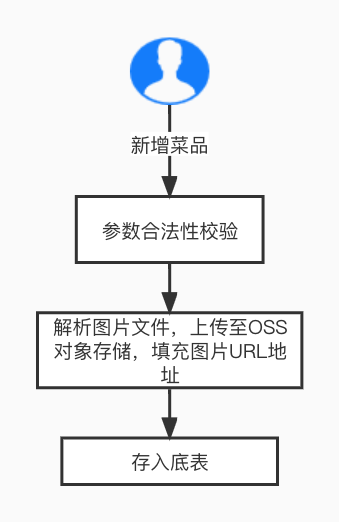
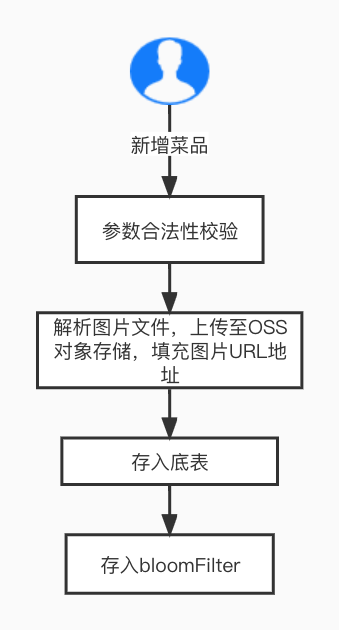
update

Changed region(s): [[0.0885, 0.0307, 0.9145, 0.9502]]

diff --git a/waimai-dishes-management/src/main/java/com/cvte/waimai/service/impl/DishServiceImpl.java b/waimai-dishes-management/src/main/java/com/cvte/waimai/service/impl/DishServiceImpl.java
@@ -5,9 +5,11 @@ import com.cvte.waimai.dao.DishDao;
 import com.cvte.waimai.exception.AppException;
 import com.cvte.waimai.exception.AppExceptionCodeMsg;
 import com.cvte.waimai.service.DishService;
+import com.cvte.waimai.utils.DishCacheMqUtils;
 import com.cvte.waimai.utils.MsgUtils;
 import com.cvte.waimai.utils.RedisUtils;
 import org.apache.log4j.Logger;
+import org.redisson.api.RBloomFilter;
 import org.springframework.beans.factory.annotation.Autowired;
 import org.springframework.stereotype.Service;
 import org.springframework.transaction.annotation.Transactional;
@@ -15,6 +17,7 @@ import pojo.Dish;
 
 import javax.annotation.Resource;
 import java.util.List;
+import java.util.Random;
 
 @Service
 public class DishServiceImpl implements DishService{
@@ -27,12 +30,20 @@ public class DishServiceImpl implements DishService{
     @Resource
     private RedisUtils redisUtils;
 
+    @Autowired
+    RBloomFilter<String> bloomFilter;
+
+    @Autowired
+    private DishCacheMqUtils dishCacheMqUtils;
+
     private static final String KEY_PREFIX = "waimai_dish_%s";
 
     @Override
     @Transactional(rollbackFor = Exception.class)
     public MsgUtils addDish(Dish dish) {
         this.dishDao.addDish(dish);
+        String curDishCacheKey = String.format(KEY_PREFIX, dish.getDish_id());
+        this.bloomFilter.add(curDishCacheKey);
         logger.info("dish add success");
         return MsgUtils.success();
     }
@@ -43,8 +54,7 @@ public class DishServiceImpl implements DishService{
         String curDishCacheKey = String.format(KEY_PREFIX, dishId);
         redisUtils.remove(curDishCacheKey);
         this.dishDao.deleteDish(dishId);
-        Thread.sleep(100);
-        redisUtils.remove(curDishCacheKey);
+        dishCacheMqUtils.sendMessage(curDishCacheKey);
         logger.info(dishId + ": dish delete success");
         return MsgUtils.success();
     }
@@ -68,14 +78,18 @@ public class DishServiceImpl implements DishService{
         String curDishCacheKey = String.format(KEY_PREFIX, dish.getDish_id());
         redisUtils.remove(curDishCacheKey);
         this.dishDao.updateDish(dish);
-        Thread.sleep(100);
-        redisUtils.remove(curDishCacheKey);logger.info(dish.getDish_id() + ": dish update success");
+        dishCacheMqUtils.sendMessage(curDishCacheKey);
+        logger.info(dish.getDish_id() + ": dish update success");
         return MsgUtils.success();
     }
 
     @Override
     public MsgUtils getDishById(int dishId) {
         String curDishCacheKey = String.format(KEY_PREFIX, dishId);
+        boolean isExist = this.bloomFilter.contains(curDishCacheKey);
+        if (!isExist) {
+            throw new AppException(AppExceptionCodeMsg.DISH_NOT_FOUND);
+        }
         String cache = redisUtils.get(curDishCacheKey);
         if (null != cache) {
             //if cache exist return
@@ -85,12 +99,23 @@ public class DishServiceImpl implements DishService{
             return MsgUtils.success(dish);
         } else {
             //if cache no exist find in db and push in cache
-            Dish dish = this.dishDao.getDishById(dishId);
-            if (dish != null) {
-                String dishStr = JSONObject.toJSONString(dish);
-                redisUtils.set(curDishCacheKey, dishStr, 60L * 5);
-            } else {
-                throw new AppException(AppExceptionCodeMsg.DISH_NOT_FOUND);
+            Dish dish;
+            synchronized (DishServiceImpl.class) {
+                //query cache again
+                String cache1 = redisUtils.get(curDishCacheKey);
+                if (cache1 != null) {
+                    dish = JSONObject.parseObject(cache1, Dish.class);
+                    return MsgUtils.success(dish);
+                }
+                dish = this.dishDao.getDishById(dishId);
+                if (dish != null) {
+                    String dishStr = JSONObject.toJSONString(dish);
+                    Random random = new Random();
+                    int randomNum = random.nextInt(300);
+                    redisUtils.set(curDishCacheKey, dishStr, 60L * 5 + randomNum);
+                } else {
+                    throw new AppException(AppExceptionCodeMsg.DISH_NOT_FOUND);
+                }
             }
             return MsgUtils.success(dish);
         }

diff --git a/waimai-uitls/src/main/java/com/cvte/waimai/utils/DishCacheMqUtils.java b/waimai-uitls/src/main/java/com/cvte/waimai/utils/DishCacheMqUtils.java
@@ -1,0 +1,60 @@
+package com.cvte.waimai.utils;
+
+
+import com.mysql.cj.MessageBuilder;
+import org.apache.rocketmq.client.consumer.DefaultMQPushConsumer;
+import org.apache.rocketmq.client.exception.MQClientException;
+import org.apache.rocketmq.client.producer.DefaultMQProducer;
+import org.apache.rocketmq.common.TopicConfig;
+import org.apache.rocketmq.common.message.Message;
+import org.apache.rocketmq.common.protocol.heartbeat.MessageModel;
+import org.springframework.context.annotation.DependsOn;
+import org.springframework.stereotype.Component;
+
+import javax.annotation.PostConstruct;
+import java.nio.charset.StandardCharsets;
+
+@Component
+@DependsOn("springBeanUtils")
+public class DishCacheMqUtils {
+
+    static String TOPIC = "waimai_dish_cache_remove";
+    static String PRODUCER_GROUP = "cvte_waimai_dish_remove";
+    static String NAMESRV_ADDR = "localhost:9876";
+    static String CONSUMER_GROUP = "cvte_waimai_dish_remove";
+    static DefaultMQProducer producer;
+    static DefaultMQPushConsumer consumer;
+
+    public void sendMessage(String cacheKey) {
+        try {
+            Message msg = new Message(TOPIC,
+                    "*",
+                    cacheKey,
+                    cacheKey.getBytes(StandardCharsets.UTF_8));
+            msg.setDelayTimeLevel(1);
+            producer.send(msg);
+        } catch (Exception e) {
+            e.printStackTrace();
+        }
+    }
+
+    @PostConstruct
+    public void init() throws MQClientException {
+        producer = new DefaultMQProducer();
+        producer.setProducerGroup(PRODUCER_GROUP);
+        producer.setNamesrvAddr(NAMESRV_ADDR);
+        producer.start();
+        //订单消费者
+        consumer = new DefaultMQPushConsumer();
+        consumer.setConsumerGroup(CONSUMER_GROUP);
+        consumer.setMessageModel(MessageModel.CLUSTERING);
+        consumer.setNamesrvAddr(NAMESRV_ADDR);
+        consumer.subscribe(TOPIC, "*");
+        //设置最大重试次数
+        consumer.setMaxReconsumeTimes(10);
+        consumer.setSuspendCurrentQueueTimeMillis(3000);
+        consumer.registerMessageListener(new MessageListenerConcurrentlyCacheHandler());
+        consumer.start();
+    }
+
+}

diff --git a/waimai-uitls/src/main/java/com/cvte/waimai/utils/MessageListenerConcurrentlyCacheHandler.java b/waimai-uitls/src/main/java/com/cvte/waimai/utils/MessageListenerConcurrentlyCacheHandler.java
@@ -1,0 +1,35 @@
+package com.cvte.waimai.utils;
+
+import org.apache.rocketmq.client.consumer.listener.ConsumeConcurrentlyContext;
+import org.apache.rocketmq.client.consumer.listener.ConsumeConcurrentlyStatus;
+import org.apache.rocketmq.client.consumer.listener.MessageListenerConcurrently;
+import org.apache.rocketmq.common.message.MessageExt;
+import org.springframework.context.annotation.DependsOn;
+import org.springframework.stereotype.Component;
+
+import java.util.List;
+
+@Component
+@DependsOn("springBeanUtils")
+public class MessageListenerConcurrentlyCacheHandler implements MessageListenerConcurrently {
+
+    private RedisUtils redisUtils;
+
+    public MessageListenerConcurrentlyCacheHandler() {
+        this.redisUtils = SpringBeanUtils.getBean(RedisUtils.class);
+    }
+
+    @Override
+    public ConsumeConcurrentlyStatus consumeMessage(List<MessageExt> list, ConsumeConcurrentlyContext consumeConcurrentlyContext) {
+        try {
+            for (MessageExt msg : list) {
+                String cacheKey = new String(msg.getBody());
+                this.redisUtils.remove(cacheKey);
+            }
+        } catch (Exception e) {
+            e.printStackTrace();
+            return ConsumeConcurrentlyStatus.RECONSUME_LATER;
+        }
+        return ConsumeConcurrentlyStatus.CONSUME_SUCCESS;
+    }
+}

diff --git a/waimai-uitls/src/main/java/com/cvte/waimai/config/RBloomFilterConfig.java b/waimai-uitls/src/main/java/com/cvte/waimai/config/RBloomFilterConfig.java
@@ -1,0 +1,22 @@
+package com.cvte.waimai.config;
+
+import org.redisson.Redisson;
+import org.redisson.api.RBloomFilter;
+import org.redisson.api.RedissonClient;
+import org.redisson.config.Config;
+import org.springframework.context.annotation.Bean;
+import org.springframework.context.annotation.Configuration;
+
+@Configuration
+public class RBloomFilterConfig {
+    @Bean
+    public RBloomFilter<String> rBloomFilter() {
+        Config config = new Config();
+        config.useSingleServer().setAddress("redis://127.0.0.1:6379");
+        RedissonClient redisson = Redisson.create(config);
+        RBloomFilter<java.lang.String> bloomFilter = redisson.getBloomFilter("waimai_bloomFilter");
+        //初始化布隆过滤器：预计元素为100000000L,误差率为3%
+        bloomFilter.tryInit(100000000L,0.03);
+        return bloomFilter;
+    }
+}

diff --git a/waimai-dishes-management/src/main/java/com/cvte/waimai/dao/DishDao.java b/waimai-dishes-management/src/main/java/com/cvte/waimai/dao/DishDao.java
@@ -18,7 +18,8 @@ public interface DishDao {
      */
     @Insert("INSERT INTO wm_dish (dish_name, image_url, price, merchant_id) " +
             "VALUES(#{dish.dish_name}, #{dish.image_url}, #{dish.price}, #{dish.merchant_id})")
-    void addDish(@Param("dish") Dish dish);
+    @Options(useGeneratedKeys = true, keyProperty = "dish_id", keyColumn = "dish_id")
+    int addDish(@Param("dish") Dish dish);
 
     /**
      * 删除菜品（软删）

diff --git a/waimai-consumer/src/main/java/com/cvte/waimai/controller/OrderController.java b/waimai-consumer/src/main/java/com/cvte/waimai/controller/OrderController.java
@@ -28,6 +28,9 @@ public class OrderController {
     @Autowired
     private OrderProducerService orderProducerService;
 
+    @Autowired
+    private DishesManagementService dishesManagementService;
+
     @ApiOperation("下单")
     @PostMapping(value = "/order/producer")
     public MsgUtils order(@RequestBody Order order) {

diff --git a/README.md b/README.md
@@ -57,11 +57,11 @@ PRIMARY KEY (`order_id`)
 ### 菜品管理模块
 #### 流程图
 - 插入菜品
-![img_3.png](img_3.png)
+  ![img_3.png](img_3.png)
 - 获取菜品
-![img_4.png](img_4.png)
+  ![img_4.png](img_4.png)
 - 删除、更新菜品
-![img_5.png](img_5.png)
+  ![img_5.png](img_5.png)
 #### 数据库表
 ```sql
 CREATE TABLE `wm_dish` (
